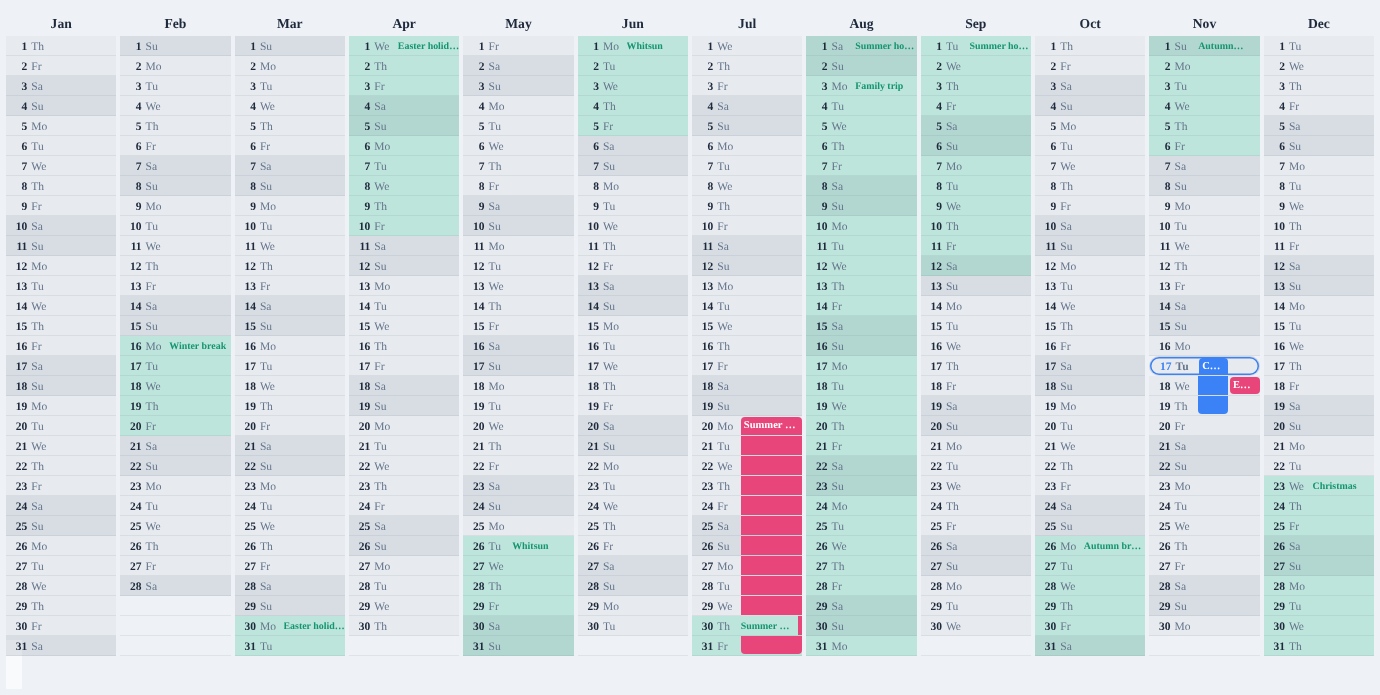
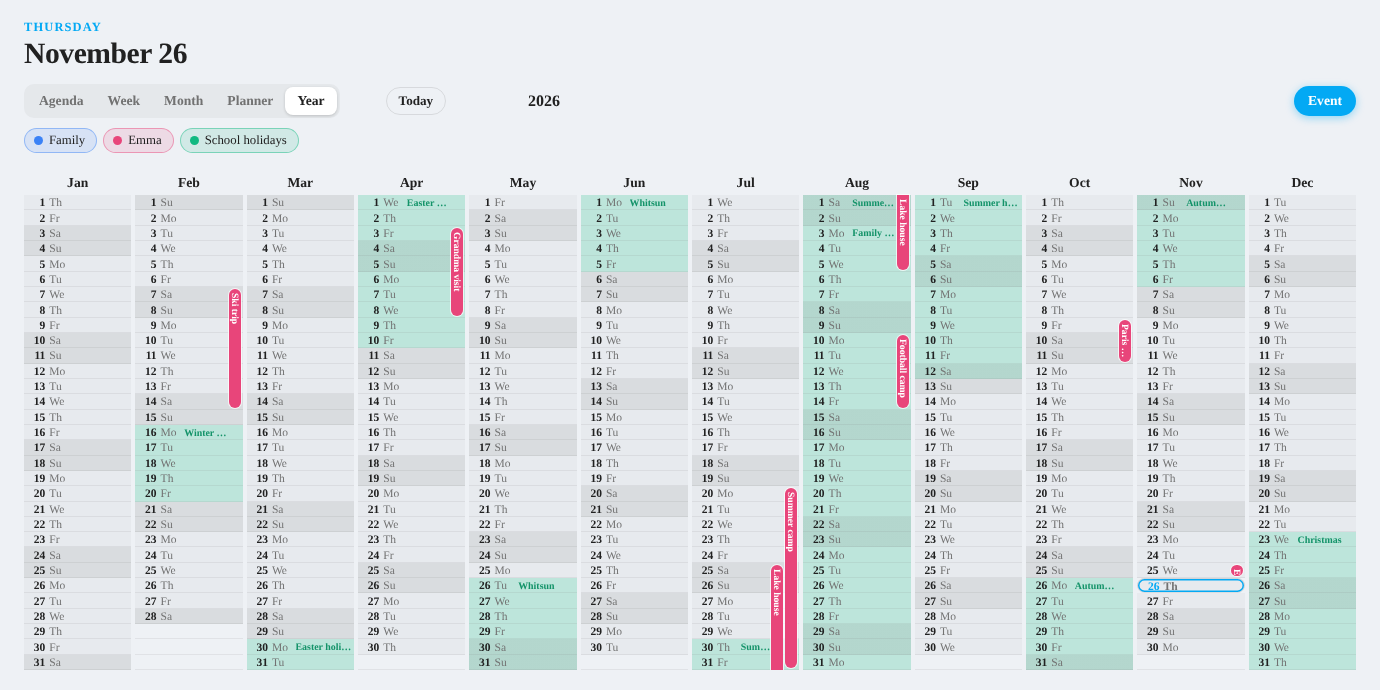
1.20.3-beta.5: combine_duplicates (PR #37) per Planner column + translations, thin vertical Year bars (#35)
Claude-Session: https://claude.ai/code/session_01ToCkiVDgPpQrDFE5fNqtsE

diff --git a/dist/home-calendar-card.js b/dist/home-calendar-card.js
@@ -8,7 +8,7 @@
  * https://github.com/mimikm/Home-Calendar-Card
  */
 
-const CARD_VERSION = "1.20.3-beta.4";
+const CARD_VERSION = "1.20.3-beta.5";
 
 // Literal, complete names at the start only; longest names take precedence.
 function titlePersons(summary, configured) {
@@ -230,7 +230,7 @@ const I18N = {
     l_todo_show_empty: "Pokaż osoby z pustą własną listą", tg_empty: "Nic do zrobienia",
     l_todo_lists: "Kolejne listy jako karty (np. zakupy)", ed_todo_lists_help: "Każda lista ma własną kartę w bloku zadań. Tytuł lub ikonę ustawisz w YAML.",
     l_month_show_time: "Pokaż godzinę rozpoczęcia w widoku miesiąca",
-    o_ys_half: "Półrocze (bieżące i następne)", l_type_hide_name: "Tylko ikona przy wydarzeniach (bez nazwy typu)", l_hide_past_events: "Ukryj dzisiejsze wydarzenia, które już się skończyły",
+    o_ys_half: "Półrocze (bieżące i następne)", l_type_hide_name: "Tylko ikona przy wydarzeniach (bez nazwy typu)", l_hide_past_events: "Ukryj dzisiejsze wydarzenia, które już się skończyły", l_combine_duplicates: "Pokazuj wydarzenia o tej samej nazwie tylko raz",
     l_allow_add_tasks: "Pokaż pole „Dodaj zadanie”",
     l_geocode: "Wyszukuj adresy w OpenStreetMap", ed_geocode_help: "Waze nie wyszukuje już adresów samodzielnie. Lokalizacje wydarzeń są wysyłane do OpenStreetMap (bezpłatnie, bez klucza), aby ustalić ich współrzędne.", multi_sel: "Kilka", added_n: "Dodano „{t}” do {n} kalendarzy", err_some: "Nie udało się dodać do: {c}",
     ed_backup: "Kopia zapasowa", ed_backup_sub: "Zapisz ustawienia tej karty do pliku albo wczytaj je z powrotem – przed większymi zmianami albo żeby skopiować kartę na inny pulpit.", ed_bk_download: "Pobierz kopię", ed_bk_copy: "Kopiuj", ed_bk_copied: "Skopiowano", ed_bk_restore: "Przywróć z pliku", ed_bk_confirm: "Zastąpić obecne ustawienia tą kopią ({d}, kalendarze: {n})?", ed_bk_replace: "Zastąp", ed_bk_done: "Ustawienia przywrócone – naciśnij Zapisz, żeby je zachować.", ed_bk_bad: "Ten plik nie jest kopią zapasową Home Calendar Card.",
@@ -314,7 +314,7 @@ const I18N = {
     l_todo_show_empty: "Mostrar personas con su lista vacía", tg_empty: "Nada pendiente",
     l_todo_lists: "Más listas como pestañas (p. ej. compra)", ed_todo_lists_help: "Cada lista tiene su propia pestaña en el bloque de tareas. El título o el icono se ajustan en YAML.",
     l_month_show_time: "Mostrar la hora de inicio en la vista Mes",
-    o_ys_half: "Semestre (este y el siguiente)", l_type_hide_name: "Solo el icono en los eventos (sin el nombre del tipo)", l_hide_past_events: "Ocultar los eventos de hoy que ya han terminado",
+    o_ys_half: "Semestre (este y el siguiente)", l_type_hide_name: "Solo el icono en los eventos (sin el nombre del tipo)", l_hide_past_events: "Ocultar los eventos de hoy que ya han terminado", l_combine_duplicates: "Mostrar solo una vez los eventos con el mismo nombre",
     l_allow_add_tasks: "Mostrar el cuadro «Añadir tarea»",
     l_geocode: "Buscar direcciones con OpenStreetMap", ed_geocode_help: "Waze ya no encuentra direcciones por sí mismo. Esto envía la ubicación de los eventos a OpenStreetMap (gratis, sin clave) para obtener sus coordenadas.", multi_sel: "Varios", added_n: "«{t}» añadido a {n} calendarios", err_some: "No se pudo añadir a: {c}",
     ed_backup: "Copia de seguridad", ed_backup_sub: "Guarda los ajustes de esta tarjeta en un archivo o vuelve a cargarlos: antes de grandes cambios o para copiar la tarjeta a otro panel.", ed_bk_download: "Descargar copia", ed_bk_copy: "Copiar", ed_bk_copied: "Copiado", ed_bk_restore: "Restaurar desde archivo", ed_bk_confirm: "¿Sustituir los ajustes actuales por esta copia ({d}, {n} calendarios)?", ed_bk_replace: "Sustituir", ed_bk_done: "Ajustes restaurados: pulsa Guardar para conservarlos.", ed_bk_bad: "Este archivo no es una copia de Home Calendar Card.",
@@ -398,7 +398,7 @@ const I18N = {
     l_todo_show_empty: "Mostra le persone con la propria lista vuota", tg_empty: "Niente da fare",
     l_todo_lists: "Altre liste come schede (es. spesa)", ed_todo_lists_help: "Ogni lista ha la sua scheda nel blocco delle cose da fare. Titolo o icona si impostano in YAML.",
     l_month_show_time: "Mostra l'ora di inizio nella vista Mese",
-    o_ys_half: "Semestre (questo e il successivo)", l_type_hide_name: "Solo l'icona sugli eventi (senza nome del tipo)", l_hide_past_events: "Nascondi gli eventi di oggi già finiti",
+    o_ys_half: "Semestre (questo e il successivo)", l_type_hide_name: "Solo l'icona sugli eventi (senza nome del tipo)", l_hide_past_events: "Nascondi gli eventi di oggi già finiti", l_combine_duplicates: "Mostra una sola volta gli eventi con lo stesso nome",
     l_allow_add_tasks: "Mostra la casella “Aggiungi attività”",
     l_geocode: "Cerca gli indirizzi con OpenStreetMap", ed_geocode_help: "Waze non trova più gli indirizzi da solo. I luoghi degli eventi vengono inviati a OpenStreetMap (gratis, senza chiave) per ottenerne le coordinate.", multi_sel: "Più calendari", added_n: "“{t}” aggiunto a {n} calendari", err_some: "Impossibile aggiungere a: {c}",
     ed_backup: "Backup e ripristino", ed_backup_sub: "Salva le impostazioni di questa card in un file o ricaricale: prima di grandi modifiche o per copiare la card su un'altra dashboard.", ed_bk_download: "Scarica backup", ed_bk_copy: "Copia", ed_bk_copied: "Copiato", ed_bk_restore: "Ripristina da file", ed_bk_confirm: "Sostituire le impostazioni attuali con questo backup ({d}, {n} calendari)?", ed_bk_replace: "Sostituisci", ed_bk_done: "Impostazioni ripristinate: premi Salva per mantenerle.", ed_bk_bad: "Questo file non è un backup di Home Calendar Card.",
@@ -658,7 +658,7 @@ const I18N = {
     l_todo_show_empty: "Personen met een lege eigen lijst tonen", tg_empty: "Niets te doen",
     l_todo_lists: "Meer lijsten als tabbladen (bijv. boodschappen)", ed_todo_lists_help: "Elke lijst krijgt een eigen tabblad in het takenblok. Titel of pictogram stel je in YAML in.",
     l_month_show_time: "Begintijd tonen in de maandweergave",
-    o_ys_half: "Halfjaar (dit en het volgende)", l_type_hide_name: "Alleen het pictogram bij afspraken (zonder soortnaam)", l_hide_past_events: "Afspraken van vandaag verbergen zodra ze voorbij zijn",
+    o_ys_half: "Halfjaar (dit en het volgende)", l_type_hide_name: "Alleen het pictogram bij afspraken (zonder soortnaam)", l_hide_past_events: "Afspraken van vandaag verbergen zodra ze voorbij zijn", l_combine_duplicates: "Afspraken met dezelfde naam maar één keer tonen",
     l_allow_add_tasks: "Vak ‘Taak toevoegen’ tonen",
     l_geocode: "Adressen opzoeken met OpenStreetMap", ed_geocode_help: "Waze vindt adressen niet meer zelf. Locaties van afspraken worden naar OpenStreetMap gestuurd (gratis, geen sleutel) om de coördinaten op te halen.", multi_sel: "Meerdere", added_n: "“{t}” toegevoegd aan {n} agenda's", err_some: "Kon niet toevoegen aan: {c}",
     ed_backup: "Back-up en herstel", ed_backup_sub: "Bewaar de instellingen van deze kaart in een bestand of laad ze terug – vóór grote wijzigingen of om de kaart naar een ander dashboard te kopiëren.", ed_bk_download: "Back-up downloaden", ed_bk_copy: "Kopiëren", ed_bk_copied: "Gekopieerd", ed_bk_restore: "Herstellen uit bestand", ed_bk_confirm: "De huidige instellingen vervangen door deze back-up ({d}, {n} agenda's)?", ed_bk_replace: "Vervangen", ed_bk_done: "Instellingen hersteld – druk op Opslaan om ze te bewaren.", ed_bk_bad: "Dit bestand is geen back-up van Home Calendar Card.",
@@ -918,7 +918,7 @@ const I18N = {
     l_todo_show_empty: "Personen mit leerer eigener Liste anzeigen", tg_empty: "Nichts zu tun",
     l_todo_lists: "Weitere Listen als Tabs (z. B. Einkauf)", ed_todo_lists_help: "Jede Liste bekommt einen eigenen Tab im Aufgabenblock. Titel oder Symbol in YAML festlegen.",
     l_month_show_time: "Startzeit in der Monatsansicht anzeigen",
-    o_ys_half: "Halbjahr (dieses und das nächste)", l_type_hide_name: "Nur das Symbol an Terminen (ohne Artname)", l_hide_past_events: "Heutige Termine ausblenden, sobald sie vorbei sind",
+    o_ys_half: "Halbjahr (dieses und das nächste)", l_type_hide_name: "Nur das Symbol an Terminen (ohne Artname)", l_hide_past_events: "Heutige Termine ausblenden, sobald sie vorbei sind", l_combine_duplicates: "Termine mit demselben Namen nur einmal anzeigen",
     l_allow_add_tasks: "Feld „Aufgabe hinzufügen“ anzeigen",
     l_geocode: "Adressen mit OpenStreetMap suchen", ed_geocode_help: "Waze findet Adressen nicht mehr selbst. Terminorte werden an OpenStreetMap gesendet (kostenlos, ohne Schlüssel), um ihre Koordinaten zu ermitteln.", multi_sel: "Mehrere", added_n: "„{t}“ zu {n} Kalendern hinzugefügt", err_some: "Konnte nicht hinzugefügt werden zu: {c}",
     ed_backup: "Sichern & Wiederherstellen", ed_backup_sub: "Einstellungen dieser Karte in einer Datei sichern oder wieder laden – vor größeren Änderungen oder um die Karte auf ein anderes Dashboard zu übernehmen.", ed_bk_download: "Sicherung herunterladen", ed_bk_copy: "Kopieren", ed_bk_copied: "Kopiert", ed_bk_restore: "Aus Datei wiederherstellen", ed_bk_confirm: "Aktuelle Einstellungen durch diese Sicherung ersetzen ({d}, {n} Kalender)?", ed_bk_replace: "Ersetzen", ed_bk_done: "Einstellungen wiederhergestellt – zum Übernehmen Speichern drücken.", ed_bk_bad: "Diese Datei ist keine Home-Calendar-Card-Sicherung.",
@@ -1178,7 +1178,7 @@ const I18N = {
     l_todo_show_empty: "Üres saját listájú személyek megjelenítése", tg_empty: "Nincs teendő",
     l_todo_lists: "További listák fülként (pl. bevásárlás)", ed_todo_lists_help: "Minden lista saját fület kap a teendők blokkban. A címet vagy ikont YAML-ben lehet megadni.",
     l_month_show_time: "Kezdési idő megjelenítése a havi nézetben",
-    o_ys_half: "Félév (ez és a következő)", l_type_hide_name: "Csak az ikon az eseményeknél (típusnév nélkül)", l_hide_past_events: "A mai, már véget ért események elrejtése",
+    o_ys_half: "Félév (ez és a következő)", l_type_hide_name: "Csak az ikon az eseményeknél (típusnév nélkül)", l_hide_past_events: "A mai, már véget ért események elrejtése", l_combine_duplicates: "Az azonos nevű események csak egyszer jelenjenek meg",
     l_allow_add_tasks: "„Teendő hozzáadása” mező megjelenítése",
     l_geocode: "Címek keresése OpenStreetMappel", ed_geocode_help: "A Waze már nem keresi meg a címeket. Az események helyszíneit az OpenStreetMap kapja meg (ingyenes, kulcs nélkül) a koordináták meghatározásához.", multi_sel: "Több", added_n: "„{t}” hozzáadva {n} naptárhoz", err_some: "Nem sikerült hozzáadni ide: {c}",
     ed_backup: "Mentés és visszaállítás", ed_backup_sub: "Mentsd fájlba a kártya beállításait, vagy töltsd vissza őket – nagyobb módosítás előtt, vagy hogy a kártyát egy másik műszerfalra másold.", ed_bk_download: "Mentés letöltése", ed_bk_copy: "Másolás", ed_bk_copied: "Másolva", ed_bk_restore: "Visszaállítás fájlból", ed_bk_confirm: "Lecseréled a jelenlegi beállításokat erre a mentésre ({d}, {n} naptár)?", ed_bk_replace: "Csere", ed_bk_done: "Beállítások visszaállítva – a megtartáshoz nyomd meg a Mentést.", ed_bk_bad: "Ez a fájl nem Home Calendar Card mentés.",
@@ -1438,7 +1438,7 @@ const I18N = {
     l_todo_show_empty: "Mostrar pessoas com a própria lista vazia", tg_empty: "Nada a fazer",
     l_todo_lists: "Mais listas como abas (ex.: compras)", ed_todo_lists_help: "Cada lista ganha sua própria aba no bloco de tarefas. Título ou ícone podem ser definidos no YAML.",
     l_month_show_time: "Mostrar horário de início na visão Mês",
-    o_ys_half: "Semestre (este e o próximo)", l_type_hide_name: "Só o ícone nos eventos (sem o nome do tipo)", l_hide_past_events: "Ocultar os eventos de hoje que já terminaram",
+    o_ys_half: "Semestre (este e o próximo)", l_type_hide_name: "Só o ícone nos eventos (sem o nome do tipo)", l_hide_past_events: "Ocultar os eventos de hoje que já terminaram", l_combine_duplicates: "Mostrar só uma vez os eventos com o mesmo nome",
     l_allow_add_tasks: "Mostrar a caixa “Adicionar tarefa”",
     l_geocode: "Buscar endereços com o OpenStreetMap", ed_geocode_help: "O Waze não encontra mais endereços sozinho. Os locais dos eventos são enviados ao OpenStreetMap (grátis, sem chave) para obter as coordenadas.", multi_sel: "Várias", added_n: "“{t}” adicionado a {n} agendas", err_some: "Não foi possível adicionar a: {c}",
     ed_backup: "Backup e restauração", ed_backup_sub: "Salve as configurações deste cartão em um arquivo ou carregue-as de volta – antes de grandes mudanças ou para copiar o cartão para outro painel.", ed_bk_download: "Baixar backup", ed_bk_copy: "Copiar", ed_bk_copied: "Copiado", ed_bk_restore: "Restaurar de arquivo", ed_bk_confirm: "Substituir as configurações atuais por este backup ({d}, {n} agendas)?", ed_bk_replace: "Substituir", ed_bk_done: "Configurações restauradas – toque em Salvar para mantê-las.", ed_bk_bad: "Este arquivo não é um backup do Home Calendar Card.",
@@ -1523,7 +1523,7 @@ const I18N = {
     l_todo_show_empty: "Прикажи особе са празном сопственом листом", tg_empty: "Нема задатака",
     l_todo_lists: "Још листа као картице (нпр. куповина)", ed_todo_lists_help: "Свака листа добија своју картицу у блоку задатака. Наслов или иконица се подешавају у YAML-у.",
     l_month_show_time: "Прикажи време почетка у месечном приказу",
-    o_ys_half: "Полугодиште (ово и следеће)", l_type_hide_name: "Само иконица на догађајима (без назива типа)", l_hide_past_events: "Сакриј данашње догађаје када прођу",
+    o_ys_half: "Полугодиште (ово и следеће)", l_type_hide_name: "Само иконица на догађајима (без назива типа)", l_hide_past_events: "Сакриј данашње догађаје када прођу", l_combine_duplicates: "Прикажи догађаје са истим називом само једном",
     l_allow_add_tasks: "Прикажи поље „Додај задатак”",
     l_geocode: "Тражи адресе преко OpenStreetMap-а", ed_geocode_help: "Waze више сам не проналази адресе. Локације догађаја се шаљу OpenStreetMap-у (бесплатно, без кључа) да би се добиле координате.", multi_sel: "Више", added_n: "„{t}” додат у {n} календара", err_some: "Није додато у: {c}",
     ed_backup: "Резервна копија", ed_backup_sub: "Сачувај подешавања ове картице у фајл или их врати – пре већих измена или да копираш картицу на другу контролну таблу.", ed_bk_download: "Преузми копију", ed_bk_copy: "Копирај", ed_bk_copied: "Копирано", ed_bk_restore: "Врати из фајла", ed_bk_confirm: "Заменити тренутна подешавања овом копијом ({d}, календара: {n})?", ed_bk_replace: "Замени", ed_bk_done: "Подешавања враћена – притисни Сачувај да их задржиш.", ed_bk_bad: "Овај фајл није резервна копија Home Calendar Card-а.",
@@ -1783,7 +1783,7 @@ const I18N = {
     l_todo_show_empty: "Prikaži osobe sa praznom sopstvenom listom", tg_empty: "Nema zadataka",
     l_todo_lists: "Još lista kao kartice (npr. kupovina)", ed_todo_lists_help: "Svaka lista dobija svoju karticu u bloku zadataka. Naslov ili ikonica se podešavaju u YAML-u.",
     l_month_show_time: "Prikaži vreme početka u mesečnom prikazu",
-    o_ys_half: "Polugodište (ovo i sledeće)", l_type_hide_name: "Samo ikonica na događajima (bez naziva tipa)", l_hide_past_events: "Sakrij današnje događaje kada prođu",
+    o_ys_half: "Polugodište (ovo i sledeće)", l_type_hide_name: "Samo ikonica na događajima (bez naziva tipa)", l_hide_past_events: "Sakrij današnje događaje kada prođu", l_combine_duplicates: "Prikaži događaje sa istim nazivom samo jednom",
     l_allow_add_tasks: "Prikaži polje „Dodaj zadatak”",
     l_geocode: "Traži adrese preko OpenStreetMap-a", ed_geocode_help: "Waze više sam ne pronalazi adrese. Lokacije događaja se šalju OpenStreetMap-u (besplatno, bez ključa) da bi se dobile koordinate.", multi_sel: "Više", added_n: "„{t}” dodat u {n} kalendara", err_some: "Nije dodato u: {c}",
     ed_backup: "Rezervna kopija", ed_backup_sub: "Sačuvaj podešavanja ove kartice u fajl ili ih vrati – pre većih izmena ili da kopiraš karticu na drugu kontrolnu tablu.", ed_bk_download: "Preuzmi kopiju", ed_bk_copy: "Kopiraj", ed_bk_copied: "Kopirano", ed_bk_restore: "Vrati iz fajla", ed_bk_confirm: "Zameniti trenutna podešavanja ovom kopijom ({d}, kalendara: {n})?", ed_bk_replace: "Zameni", ed_bk_done: "Podešavanja vraćena – pritisni Sačuvaj da ih zadržiš.", ed_bk_bad: "Ovaj fajl nije rezervna kopija Home Calendar Card-a.",
@@ -2041,7 +2041,7 @@ const I18N = {
     l_todo_show_empty: "Afficher les personnes dont la liste est vide", tg_empty: "Rien à faire",
     l_todo_lists: "Autres listes en onglets (ex. courses)", ed_todo_lists_help: "Chaque liste a son propre onglet dans le bloc des tâches. Définissez un titre ou une icône en YAML.",
     l_month_show_time: "Afficher l’heure de début dans la vue Mois",
-    o_ys_half: "Semestre (celui-ci et le suivant)", l_type_hide_name: "Seulement l’icône sur les événements (sans le nom du type)", l_hide_past_events: "Masquer les événements d’aujourd’hui une fois terminés",
+    o_ys_half: "Semestre (celui-ci et le suivant)", l_type_hide_name: "Seulement l’icône sur les événements (sans le nom du type)", l_hide_past_events: "Masquer les événements d’aujourd’hui une fois terminés", l_combine_duplicates: "Afficher une seule fois les événements portant le même nom",
     l_allow_add_tasks: "Afficher la zone « Ajouter une tâche »", 
     added_n: "« {t} » ajouté à {n} calendriers", err_some: "Impossible de l’ajouter à : {c}", multi_sel: "Plusieurs",
     ed_backup: "Sauvegarde et restauration", ed_backup_sub: "Enregistrez les réglages de cette carte dans un fichier, ou rechargez-les – avant de gros changements, ou pour copier la carte vers un autre tableau de bord.",
@@ -3534,16 +3534,17 @@ class HomeCalendarCard extends HTMLElement {
     return Object.assign(ev, { private: true, summary: this._t("private_ev"), title: this._t("private_ev"), description: "", location: "", type: "standard", tagged: false, age: null, ruleIcon: "" });
   }
 
-  _onDay(day) {
+  _onDay(day, dedupe = true) {
     const s = startOfDay(day);
     const e = addDays(s, 1);
     // #36: hide_past_events – today's timed events disappear once they're over (the card redraws every minute)
     const now = new Date();
     const hidePast = this._config.hide_past_events === true && sameDay(s, now);
-    return this._dedupe(this._events.filter((ev) => !this._hidden.has(ev.cal.entity)
+    const list = this._events.filter((ev) => !this._hidden.has(ev.cal.entity)
       && !(hidePast && !ev.allDay && ev.end <= now)
       && ev.start < e
-      && (ev.end > s || (ev.end.getTime() === ev.start.getTime() && ev.start >= s))));
+      && (ev.end > s || (ev.end.getTime() === ev.start.getTime() && ev.start >= s)));
+    return dedupe ? this._dedupe(list) : list;
   }
 
   // combine_duplicates: events with the same name (case-insensitive) and the same start are shown once –
@@ -3668,7 +3669,7 @@ class HomeCalendarCard extends HTMLElement {
 
   _typeIcon(ev) { return ev.private ? "mdi:lock-outline" : (!ev.tagged && ev.ruleIcon) || this._ty(ev).icon || ""; }
 
-  _eventsOn(day) { return this._onDay(day).filter((ev) => !this._isBanner(ev)); }
+  _eventsOn(day, dedupe = true) { return this._onDay(day, dedupe).filter((ev) => !this._isBanner(ev)); }
 
   _holidaysOn(day) { return this._onDay(day).filter((ev) => this._isBanner(ev)); }
 
@@ -5034,22 +5035,18 @@ class HomeCalendarCard extends HTMLElement {
         const bg = tints.length === 1 ? `--holbg:color-mix(in srgb, ${esc(tints[0])} 22%, transparent);`
           : tints.length > 1 ? `--holbg:linear-gradient(135deg, ${tints.map((c, i) => `color-mix(in srgb, ${esc(c)} 22%, transparent) ${(i * 100) / tints.length}% ${((i + 1) * 100) / tints.length}%`).join(", ")});` : "";
         const holLabel = hols.find((b) => b.s[0] === day || day === 1);
-        let segs = "";
-        for (let ln = 0; ln < lanes; ln++) {
-          const b = bars.find((x) => x.lane === ln && x.s[0] <= day && x.s[1] >= day);
-          if (!b) { segs += `<span class="yseg empty"></span>`; continue; }
-          const top = b.s[0] === day;
-          const bot = b.s[1] === day;
-          const label = top || day === 1;
-          segs += `<span class="yseg ${top ? "top" : ""} ${bot ? "bot" : ""} ${b.ev.start < mStart && day === 1 ? "cont" : ""}" style="--c:${esc(b.ev.cal.color)}" data-action="open-event" data-id="${b.ev.id}" title="${esc(`${b.ev.summary} · ${this._whenText(b.ev)}`)}">${label ? esc(b.ev.summary) : ""}</span>`;
-        }
-        out += `<div class="ycell ${we ? "we" : ""} ${k === today ? "today" : ""} ${hols.length ? "yhd" : ""}" style="grid-column:${mi + 1};grid-row:${day + 1};${bg}" data-action="open-day" data-date="${k}">
+        out += `<div class="ycell ${we ? "we" : ""} ${k === today ? "today" : ""} ${hols.length ? "yhd" : ""}" style="grid-column:${mi + 1};grid-row:${day + 1};--yl:${lanes};${bg}" data-action="open-day" data-date="${k}">
           <span class="yd">${day}</span><span class="yw">${esc(wd.format(d).replace(/\.$/, "").slice(0, 2))}</span>
           ${holLabel ? `<span class="yhol" style="--c:${esc(holLabel.ev.cal.color)}" data-action="open-event" data-id="${holLabel.ev.id}" title="${esc(holLabel.ev.summary)}">${esc(holLabel.ev.summary)}</span>` : ""}
-          ${lanes ? `<span class="ysegs" style="--yl:${lanes}">${segs}</span>` : ""}
           ${over[day] ? `<span class="ymore">+${over[day]}</span>` : ""}
         </div>`;
       }
+      // #35: thin vertical bars down the right of the month, one per event, with the name written along the bar
+      bars.filter((b) => b.lane !== undefined).forEach((b) => {
+        const cl = b.ev.start < mStart;
+        const cr = b.ev.end > mEnd || (b.ev.allDay && b.ev.end.getTime() > mEnd.getTime());
+        out += `<span class="ybar ${cl ? "cl" : ""} ${cr ? "cr" : ""}" style="grid-column:${mi + 1};grid-row:${b.s[0] + 1} / ${b.s[1] + 2};--c:${esc(b.ev.cal.color)};--ln:${b.lane}" data-action="open-event" data-id="${b.ev.id}" title="${esc(`${b.ev.summary} · ${this._whenText(b.ev)}`)}"><span>${esc(b.ev.summary)}</span></span>`;
+      });
     });
     return out + `</div>`;
   }
@@ -5132,9 +5129,10 @@ class HomeCalendarCard extends HTMLElement {
     for (let i = 0; i < days; i++) {
       const d = addDays(start, i);
       const k = dayKey(d);
-      const evs = this._eventsOn(d);
+      // combine_duplicates works per column: each person keeps their own copy of a shared event
+      const evs = this._eventsOn(d, false);
       const hol = this._holidaysOn(d)[0];
-      const shared = evs.filter((ev) => !colSet.has(ev.cal));
+      const shared = this._dedupe(evs.filter((ev) => !colSet.has(ev.cal)));
       const rowCls = `${k === today ? "is-today" : ""} ${[0, 6].includes(d.getDay()) ? "wkend" : ""} ${hol ? "has-hol" : ""}`;
       out += `<div class="pday ${rowCls}" style="grid-area:${i + 2} / 1;${hol ? `--hol:${esc(hol.cal.color)}` : ""}">
         <button class="pdate" data-action="open-day" data-date="${k}"><span class="wd">${esc(wd.format(d))}</span><span class="dn">${d.getDate()}</span><span class="mo">${esc(mo.format(d))}</span></button>
@@ -5146,7 +5144,7 @@ class HomeCalendarCard extends HTMLElement {
         // Distinguish configured entries, not entities: one source can be
         // listed several times with different include/exclude filters.
         const members = new Set(c.members);
-        const mine = evs.filter((ev) => members.has(ev.cal) && !pInBar.has(ev.id));
+        const mine = this._dedupe(evs.filter((ev) => members.has(ev.cal) && !pInBar.has(ev.id)));
         const lanesHere = pBars[ci].bars.filter((b) => b.a <= i && b.b >= i).length ? pBars[ci].lanes : 0;
         const target = c.members.find((m) => writable.has(m.entity)); // a group column adds to its first writable member
         const add = canAdd && !!target;
@@ -6371,12 +6369,12 @@ dialog[open] { display: flex; flex-direction: column; animation: pop .18s ease-o
 .ycell.ynone { background: transparent; cursor: default; }
 .yd { flex: none; width: 1.5em; text-align: right; font-weight: 700; font-variant-numeric: tabular-nums; }
 .yw { flex: none; width: 1.7em; color: var(--hcc-muted); text-transform: capitalize; }
-.ysegs { display: flex; flex: 0 0 calc(var(--yl) * 30%); max-width: 66%; margin-left: auto; min-width: 0; align-self: stretch; gap: 2px; margin-bottom: -1px; }
-.yseg { flex: 1 1 0; min-width: 0; background: var(--c); color: #fff; font-size: .66rem; font-weight: 600; line-height: 1.6; padding: 0 3px; overflow: hidden; white-space: nowrap; text-overflow: ellipsis; }
-.yseg.empty { background: transparent; }
-.yseg.top { border-top-left-radius: 4px; border-top-right-radius: 4px; margin-top: 1px; }
-.yseg.bot { border-bottom-left-radius: 4px; border-bottom-right-radius: 4px; margin-bottom: 2px; }
-.yseg.cont { opacity: .9; }
+.ycell { padding-right: calc(var(--yl, 0) * 14px); }
+.ybar { position: relative; z-index: 1; contain: size; justify-self: end; align-self: stretch; width: 12px; margin: 2px calc(var(--ln) * 14px + 2px) 2px 0; border-radius: 6px; background: var(--c);
+  color: #fff; cursor: pointer; overflow: hidden; display: flex; justify-content: center; box-shadow: 0 0 0 1px color-mix(in srgb, var(--hcc-bg, #fff) 70%, transparent); }
+.ybar > span { writing-mode: vertical-rl; font-size: .6rem; font-weight: 600; line-height: 12px; white-space: nowrap; overflow: hidden; text-overflow: ellipsis; padding: 4px 0; max-height: 100%; }
+.ybar.cl { margin-top: 0; border-top-left-radius: 0; border-top-right-radius: 0; }
+.ybar.cr { margin-bottom: 0; border-bottom-left-radius: 0; border-bottom-right-radius: 0; }
 .ymore { flex: none; font-size: .65rem; color: var(--hcc-muted); align-self: center; }
 @container (max-width: 700px) { .year { overflow-x: auto; min-width: 0; } .year { grid-template-columns: repeat(12, minmax(64px, 1fr)); } }
 .multi-tg { margin-left: 8px; display: inline-flex; align-items: center; gap: 4px; padding: 1px 8px; border-radius: 999px; border: 1px solid var(--hcc-line);

diff --git a/README.md b/README.md
@@ -214,7 +214,7 @@ max_height: 640px
 | `time_format` | `auto` \| `24h` \| `12h` | `auto` | `auto` follows your HA user profile |
 | `show_empty_days` | boolean | `false` | Show days with no events in Agenda view (today is always shown) |
 | `hide_past_events` | boolean | `false` | Hide today's events once they're over – ongoing, upcoming and all-day events stay. Handy on wall displays. Requested by [@kornelremete](https://github.com/kornelremete) in [#36](https://github.com/mimikm/Home-Calendar-Card/issues/36) |
-| `combine_duplicates` | boolean | `false` | Show events with the same name and start time only once – handy when one event is in several people's calendars. The first calendar's copy (color, chip) is shown. |
+| `combine_duplicates` | boolean | `false` | Show events with the same name and start time only once – handy when one event is in several people's calendars. The first calendar's copy (color, chip) is shown. In the Planner view each person still keeps their own copy in their column. |
 | `show_header` | boolean | `true` | Show the big date and current weather |
 | `show_calendar_chips` | boolean | `true` | Show the calendar show/hide chips |
 | `grid` | object | – | Your own grid layout from the Layout designer – see *Layout designer* |
@@ -904,7 +904,7 @@ week_hour_end: 22      # last hour shown
 
 ### Year view (holiday planner)
 
-The **Year** view shows the whole year like a printed holiday planner: months side by side, days 1–31 down the page, and all-day events – school holidays, vacations, birthdays – as coloured blocks. Weekends are shaded and today is outlined.
+The **Year** view shows the whole year like a printed holiday planner: months side by side, days 1–31 down the page, and all-day events – vacations, camps, birthdays – as thin coloured bars running down the days, with the name written along the bar. Holiday-type calendars (e.g. school holidays) tint the days instead and show their name on the first day. Weekends are shaded and today is outlined. Up to three bars sit side by side in a month; if more overlap, the day shows **+N**.
 
 ![Year view](images/year-view.png)
 
